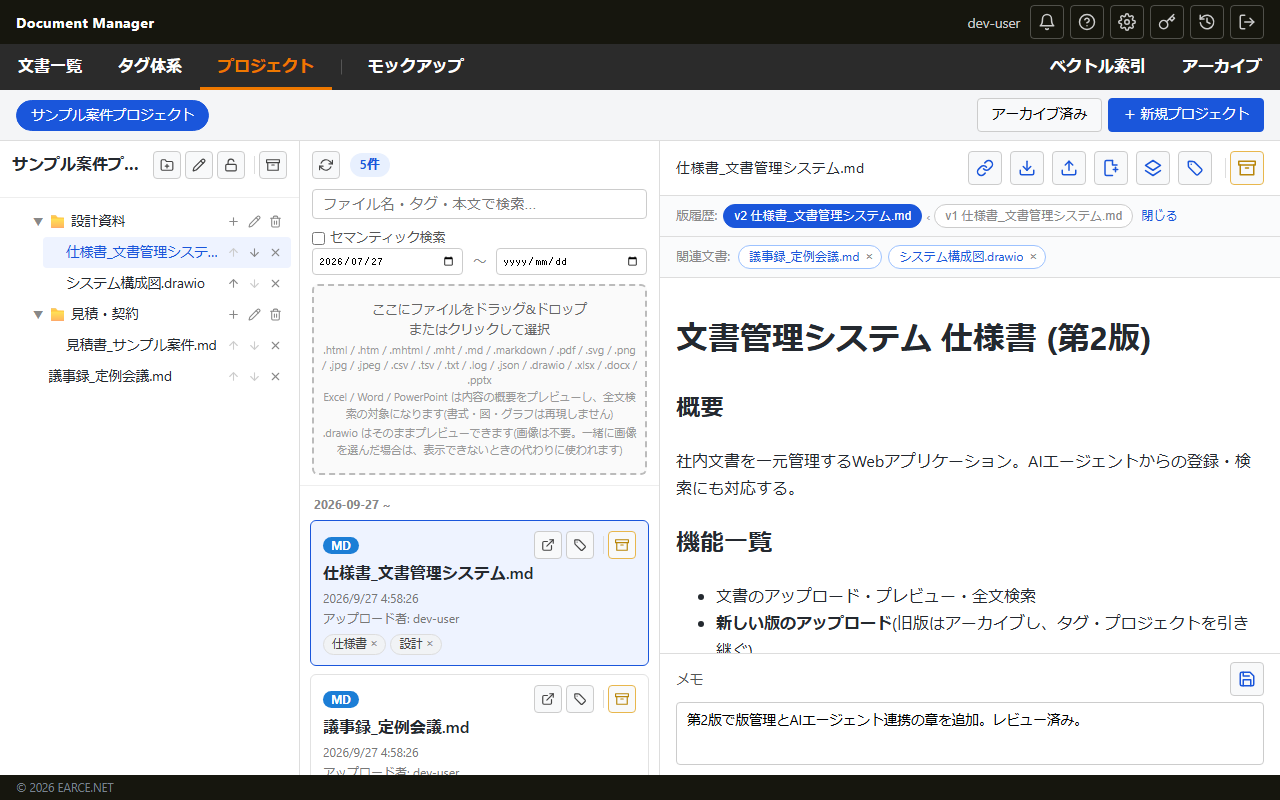
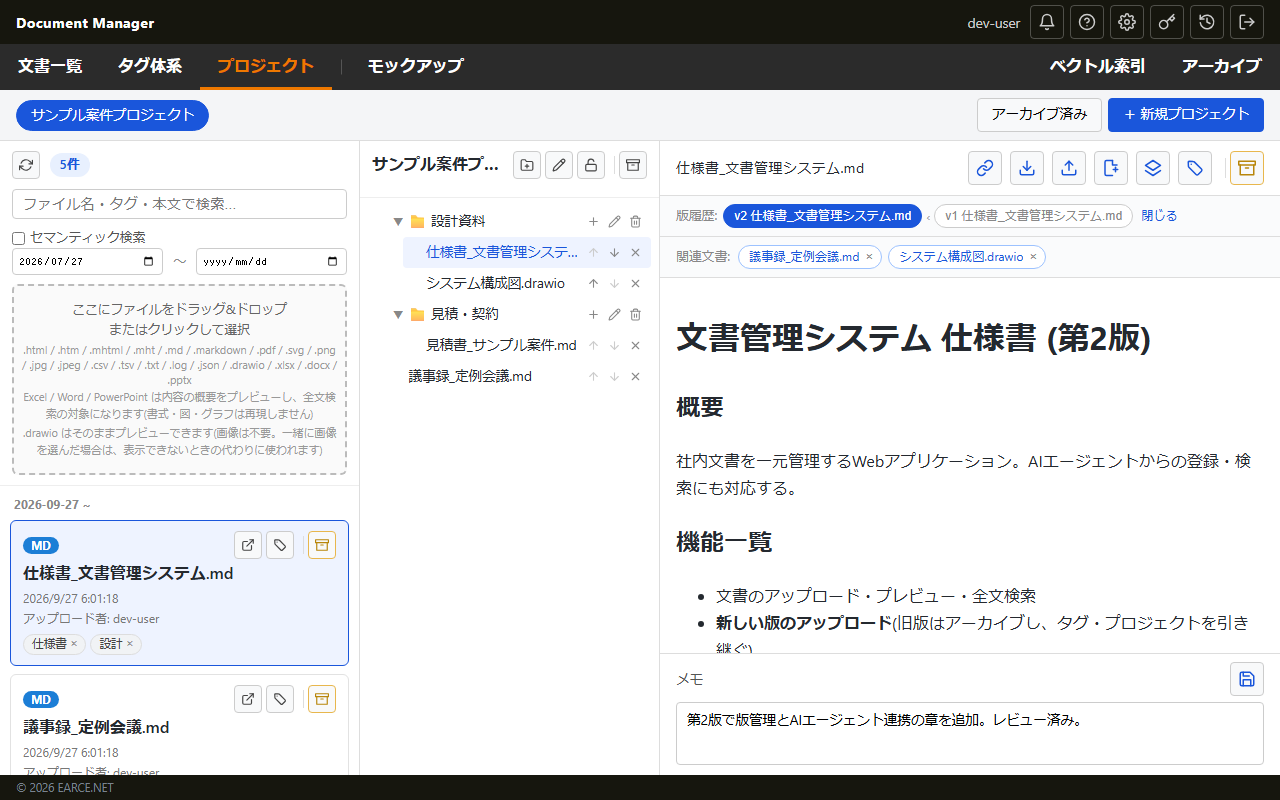
プロジェクト画面を 検索→フォルダ構成→プレビュー の並びにした
編集中は左からツリー・文書一覧・プレビューの順で、文書一覧から切り替えると左端に
ツリーが入り込んで検索欄の位置がずれていた。一覧からツリーへ入れる操作の向き
(左→右)とも合っていなかった。

「ファイルを探す → 置き場所を決める → 中身を見る」の順に変えた。DOMの順ではなく
CSSのorderで入れ替えているので、他の画面の並びには影響しない。

見た目の左右を実際に測るE2Eを足した(orderで決めているためDOMの順を見ても分からない)。
切り替えで検索欄の位置が動かないことと、施錠中は一覧を出さずツリーとプレビューだけに
なることも合わせて見ている。並び替えを外すと落ちることを確認済み。

diff --git a/test/api/project-layout.e2e.js b/test/api/project-layout.e2e.js
@@ -1,0 +1,87 @@
+/*!
+ * project-layout.e2e.js : プロジェクト画面の列の並びの検証
+ * Copyright(c) 2026 EARCE.NET <d.idei@earce.net>
+ * MIT Licensed
+ *
+ * プロジェクトの編集中は3つの列が並ぶ。順番は
+ *
+ *   ファイルを探す(検索・アップロード) → 置き場所を決める(フォルダ構成) → 中身を見る(プレビュー)
+ *
+ * にしている。理由は2つ。
+ *   1. 文書一覧から切り替えたときに検索欄の位置が動かない(前は左端にツリーが入り込んで全体がずれた)
+ *   2. 一覧からツリーへ入れる操作の向き(左→右)と並びが揃う
+ *
+ * 並びはCSSの order で決めていてDOMの順とは違うため、見た目の左右を実際に測って確かめる。
+ *
+ * 実行には Chromium が必要: `npx playwright install chromium`
+ */
+
+const {test, expect} = require("@playwright/test");
+const {loadKeys, BASE_URL} = require("./config.js");
+
+const keys = loadKeys();
+const rw = {Authorization: `Bearer ${keys.readwrite}`};
+const PROJECT = `並び確認 ${Date.now()}`;
+
+test.describe.serial("プロジェクト画面の並び(実ブラウザ)", () => {
+	test.beforeAll(async ({request}) => {
+		const project = await (await request.post("api/projects", {headers: rw, data: {name: PROJECT}})).json();
+		await request.post(`api/projects/${project.id}/folders`, {headers: rw, data: {name: "資料"}});
+	});
+
+	test.beforeEach(async ({context}) => {
+		await context.addCookies([{name: keys.sessionCookieName, value: keys.sessionCookie, url: BASE_URL}]);
+	});
+
+	const leftEdges = (page) => page.evaluate(() => {
+		const rect = (id) => {
+			const el = document.getElementById(id);
+			const box = el.getBoundingClientRect();
+			return {id, left: Math.round(box.left), visible: box.width > 0};
+		};
+		return ["sideBar", "projectTreePane", "previewArea"].map(rect);
+	});
+
+	test("編集中は 検索 → フォルダ構成 → プレビュー の順に並ぶ", async ({page}) => {
+		await page.goto("./");
+		await page.click("#menuProjectsLink");
+		await page.click(`.projectTab:has-text("${PROJECT}")`);
+		await expect(page.locator("#projectTreePane")).toBeVisible();
+		await expect(page.locator("#sideBar")).toBeVisible();
+
+		const boxes = await leftEdges(page);
+		const order = boxes.filter((b) => b.visible).sort((a, b) => a.left - b.left).map((b) => b.id);
+		expect(order, `実際の並び: ${order.join(" → ")}`).toEqual(["sideBar", "projectTreePane", "previewArea"]);
+	});
+
+	test("文書一覧から切り替えても、検索欄の位置が動かない", async ({page}) => {
+		await page.goto("./");
+		await expect(page.locator("#sideBar")).toBeVisible();
+		const before = (await leftEdges(page)).find((b) => b.id === "sideBar").left;
+
+		await page.click("#menuProjectsLink");
+		await page.click(`.projectTab:has-text("${PROJECT}")`);
+		await expect(page.locator("#projectTreePane")).toBeVisible();
+		const after = (await leftEdges(page)).find((b) => b.id === "sideBar").left;
+
+		expect(after, `切り替えで検索欄が ${before}px → ${after}px へ動いた`).toBe(before);
+	});
+
+	// 施錠すると編集モードが解ける。そのときは一覧を出さず、ツリーとプレビューだけになる
+	test("編集中でなければ、フォルダ構成とプレビューだけになる", async ({page, request}) => {
+		const projects = await (await request.get("api/projects", {headers: rw})).json();
+		const target = projects.find((p) => p.name === PROJECT);
+		await request.post(`api/projects/${target.id}/lock`, {headers: rw});
+
+		await page.goto("./");
+		await page.click("#menuProjectsLink");
+		await page.click(`.projectTab:has-text("${PROJECT}")`);
+		await expect(page.locator("#projectTreePane")).toBeVisible();
+		await expect(page.locator("#sideBar")).toBeHidden();
+
+		const order = (await leftEdges(page)).filter((b) => b.visible).sort((a, b) => a.left - b.left).map((b) => b.id);
+		expect(order).toEqual(["projectTreePane", "previewArea"]);
+
+		await request.post(`api/projects/${target.id}/unlock`, {headers: rw});
+	});
+});

diff --git a/app/static/index.html b/app/static/index.html
@@ -270,6 +270,12 @@
 	#projectTreePane { display: none; width: 300px; min-width: 300px; background: #fff; border-right: 1px solid #ddd; flex-direction: column; }
 	#appShell.projectsMode #projectTreePane { display: flex; }
 	#appShell.projectsMode:not(.projectsEditMode) #sideBar { display: none; }
+	/* 編集中は「ファイルを探す → 置き場所を決める → 中身を見る」の順に並べる。
+	   文書一覧から切り替えても検索欄の位置が動かず、ツリーへ入れる向き(左→右)とも揃う
+	   (DOMの順ではなく order で入れ替えているのは、他の画面の並びに影響させないため) */
+	#appShell.projectsMode #sideBar { order: 1; }
+	#appShell.projectsMode #projectTreePane { order: 2; }
+	#appShell.projectsMode #previewArea { order: 3; }
 
 	/* ベクトル索引: 件数が多くなる想定のため、モーダルではなく文書一覧/プレビューを両方隠して
 	   ページ全体(#vectorIndexPane)に表として表示する */
